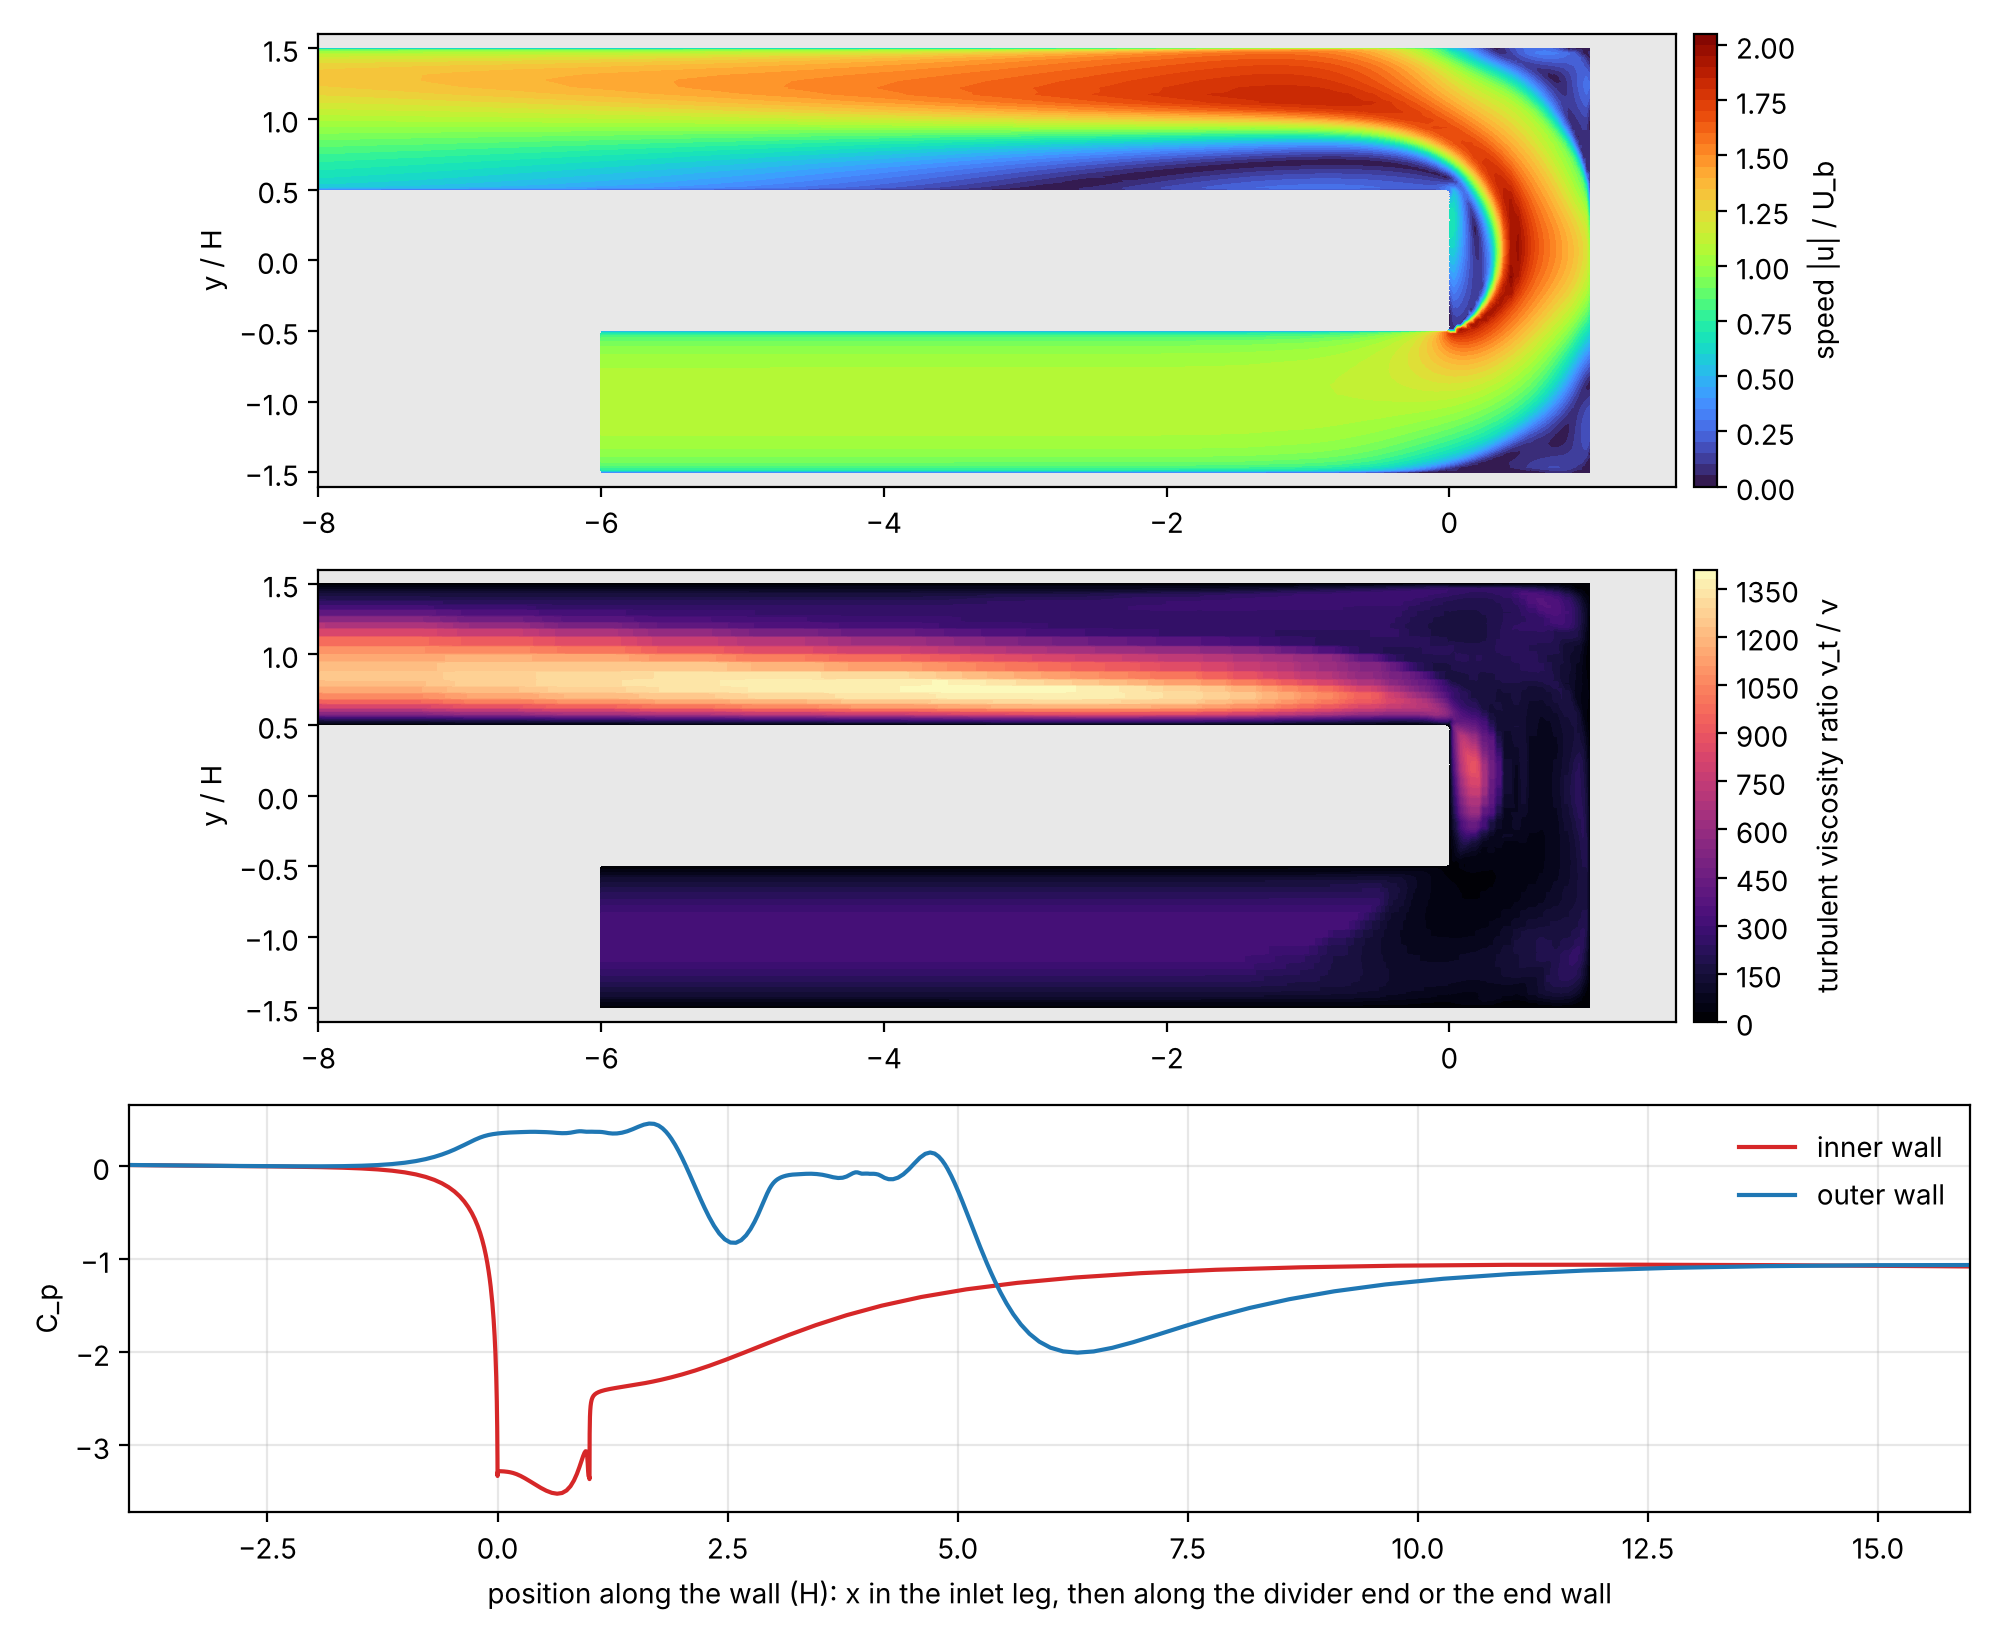
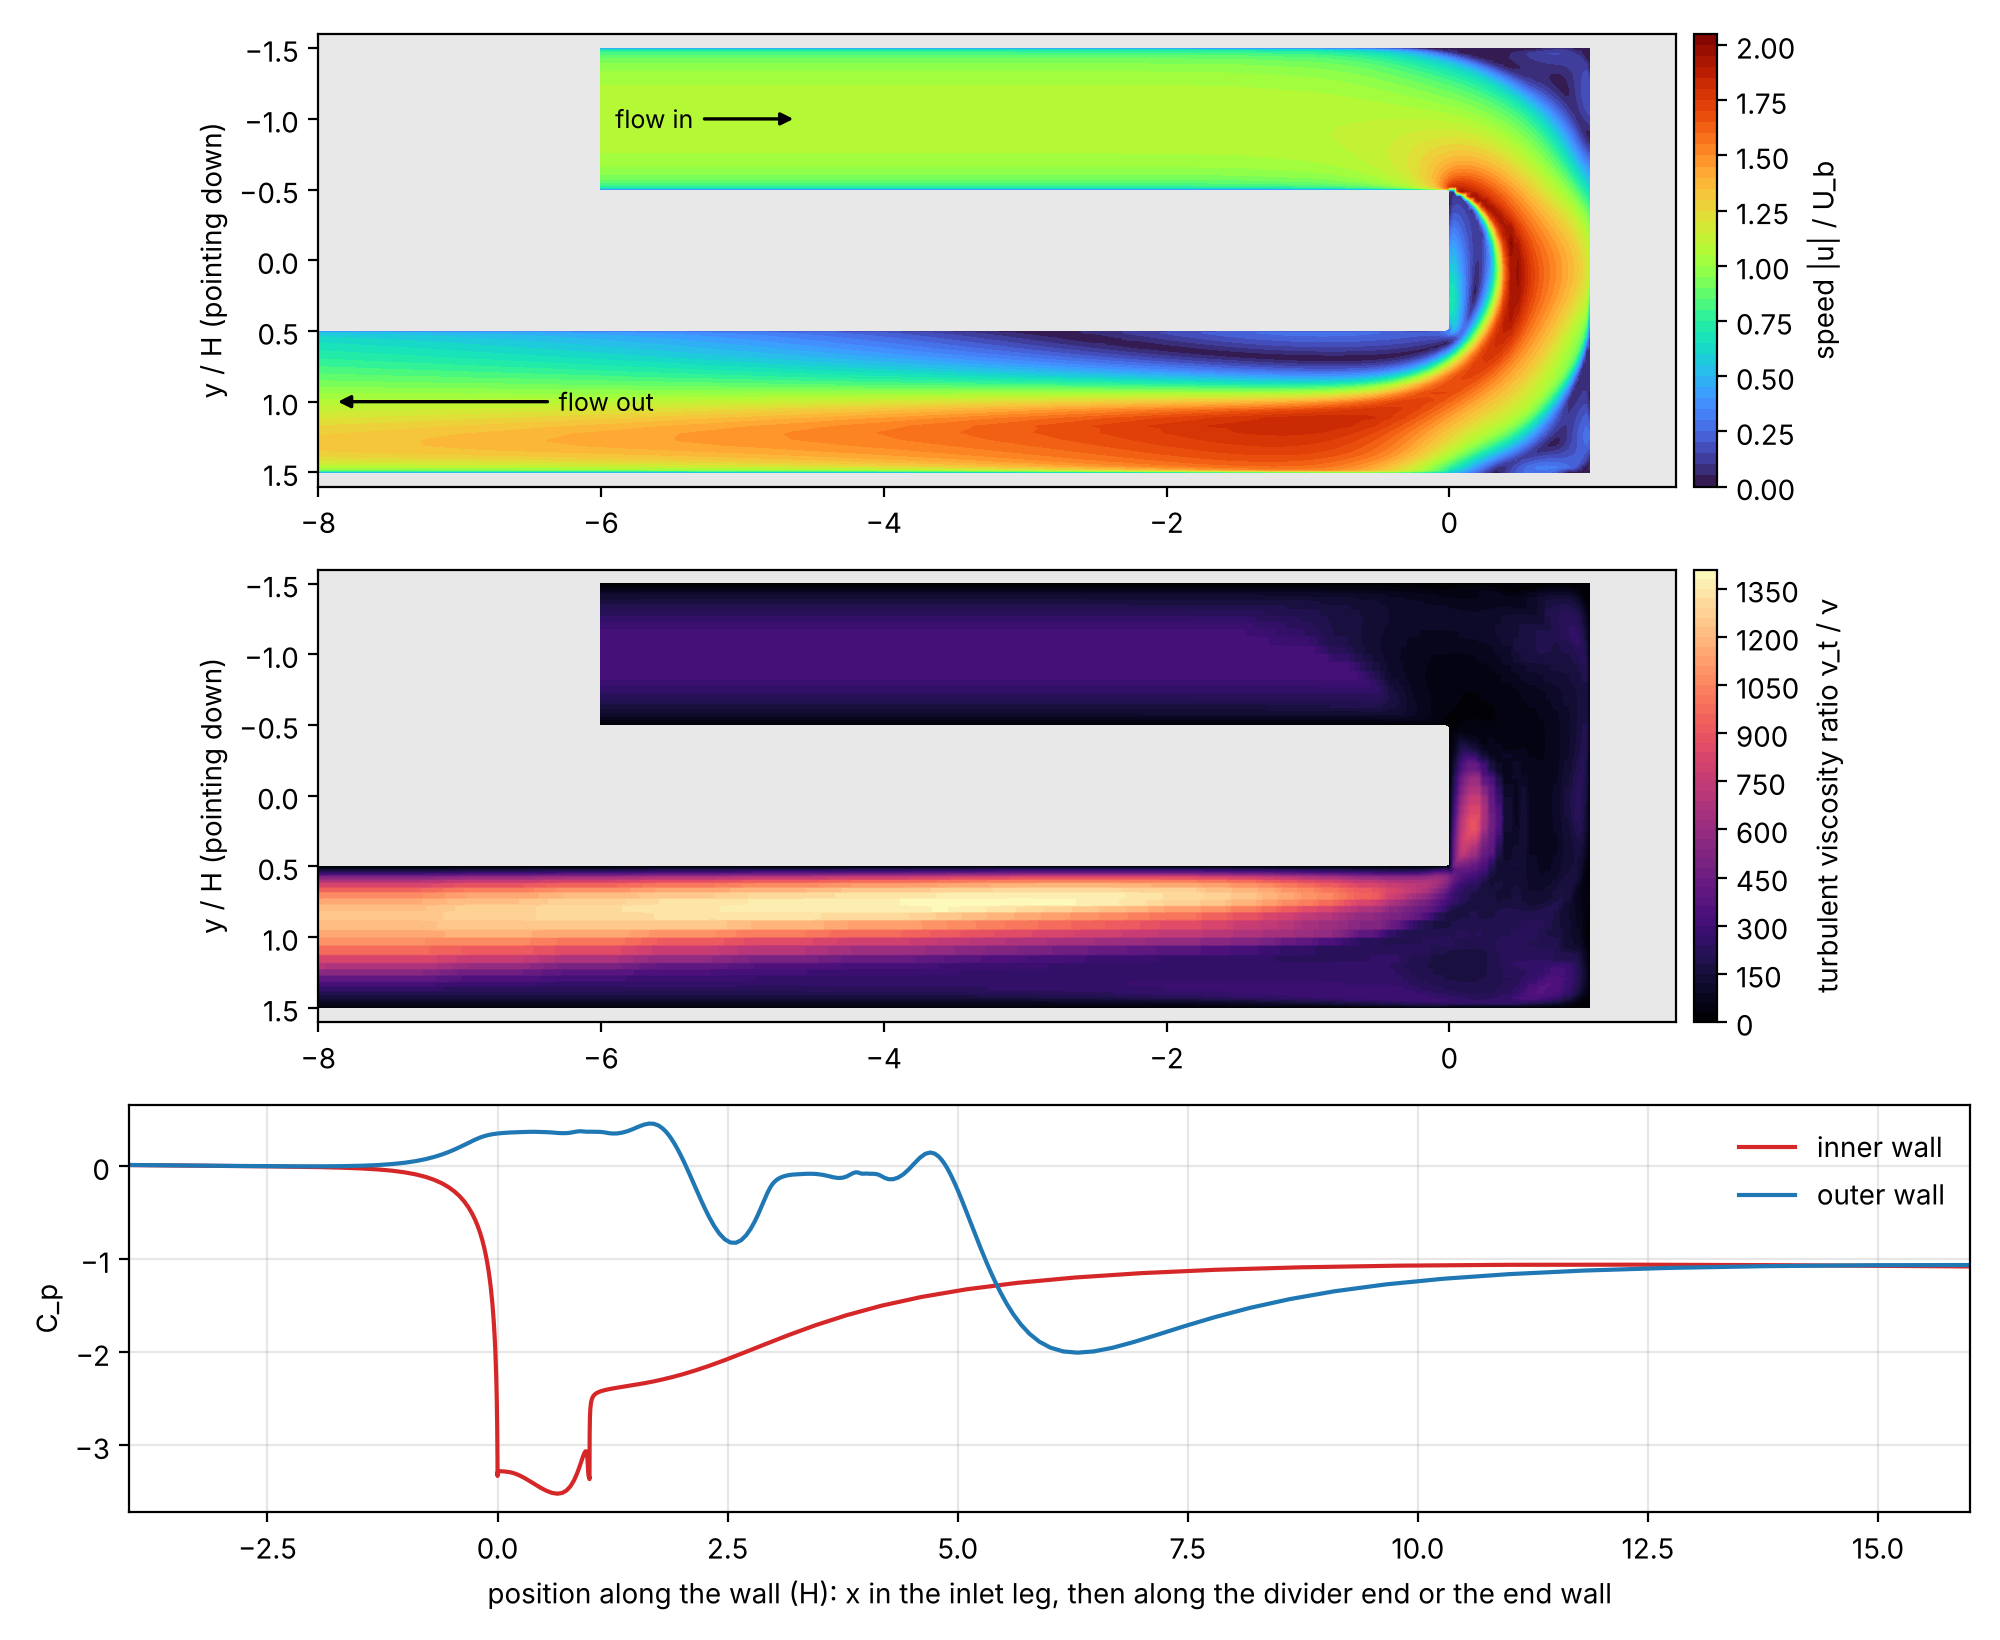
U-bend images drawn as in the literature: flow in at the upper left, out at the lower left (gallery 204)
Claude-Session: https://claude.ai/code/session_012imjwn8pJJno4y7U68qNUF

diff --git a/tools/plot/ubend_chart.py b/tools/plot/ubend_chart.py
@@ -112,8 +112,17 @@ def main(argv) -> None:
         ax = fig.add_subplot(gs[k])
         t = ax.tricontourf(tri, v, levels=48, cmap=cmap)
         fig.colorbar(t, ax=ax, label=lab, pad=0.01)
-        ax.set_aspect("equal"); ax.set_xlim(-8, 1.6); ax.set_ylim(-1.6, 1.6); ax.set_ylabel("y / H")
+        # Drawn as in the literature: flow in at the upper left, out at the
+        # lower left. The y axis points down (coordinates as in the case
+        # file, the picture mirrored about the duct axis y = 0), so inner and
+        # outer walls and the bend stay where the case has them.
+        ax.set_aspect("equal"); ax.set_xlim(-8, 1.6); ax.set_ylim(1.6, -1.6)
+        ax.set_ylabel("y / H (pointing down)")
         ax.set_facecolor("#e8e8e8")
+        if k == 0:
+            kw = dict(arrowprops=dict(arrowstyle="-|>", color="k", lw=1.2), color="k", fontsize=9, va="center")
+            ax.annotate("flow in", xy=(-4.6, -1.0), xytext=(-5.9, -1.0), **kw)
+            ax.annotate("flow out", xy=(-7.9, 1.0), xytext=(-6.3, 1.0), **kw)
     ax = fig.add_subplot(gs[2])
     outer, inner = g.along(d, "outer"), g.along(d, "inner")
     p0 = g.p_at(outer, g.station(-2.0, -1.5))

diff --git a/docs/gallery/turbulence.md b/docs/gallery/turbulence.md
@@ -1345,7 +1345,11 @@ python3 -m tools.plot.diffuser_chart docs/figures/gallery/diffuser_sst.png
 <a id="ubend"></a>
 ## 204. U-bend of Rc/H = 1: separation behind a 180° turn, three meshes with GCI, sharp edges
 
-<img src="../figures/gallery/ubend_sst.png" alt="Turbulent flow through a two-dimensional U-duct with a centreline radius of one duct height, k-omega SST, coarse mesh. Top: speed, accelerated along the inner wall of the turn and a thin slow region on the inner wall behind the turn where the flow separates; the fast flow is pushed to the outer wall of the outlet leg. Middle: turbulent viscosity ratio, largest in the shear layer above the separated region. Bottom: wall pressure coefficient along the inner and the outer wall, a suction of minus 2.5 on the inner wall in the turn and a rise to plus 0.5 on the outer wall" width="800" height="656">
+<img src="../figures/gallery/ubend_sst.png" alt="Turbulent flow through a two-dimensional U-duct with a centreline radius of one duct height, k-omega SST, coarse mesh, drawn with the flow entering at the upper left and leaving at the lower left. Top: speed, accelerated along the inner wall of the turn and a thin slow region on the inner wall behind the turn where the flow separates; the fast flow is pushed to the outer wall of the outlet leg. Middle: turbulent viscosity ratio, largest in the shear layer above the separated region. Bottom: wall pressure coefficient along the inner and the outer wall, a suction of minus 2.5 on the inner wall in the turn and a rise to plus 0.5 on the outer wall" width="800" height="656">
+
+The field images are drawn as in the literature, with the flow entering at
+the upper left and leaving at the lower left: the y axis points down, so
+the coordinates are those of the case file and the mesh.
 
 The fourth general-purpose internal flow of D45 (stage 8): the
 two-dimensional U-duct of Monson, Seegmiller & McConnaughey (1990, AIAA
@@ -1449,7 +1453,7 @@ past 10 000 iterations is against the run rules (AGENTS.md); a faster
 route to the steady state of the sharp turn on fine meshes (a transient
 run from the level-2 state, or a stronger start) is open.
 
-<img src="../figures/gallery/ubend_sharp.png" alt="The same duct with sharp edges, coarse mesh. Top: speed; the flow turns in a jet around the square divider end, with slow corner vortices at the end wall and a long separated region on the divider behind the turn. Middle: turbulent viscosity ratio, large in the shear layers of the separated regions. Bottom: wall pressure coefficient along the inner and the outer wall, a suction of minus 3.5 on the divider end and a loss of about minus 1.05 behind the turn" width="800" height="656">
+<img src="../figures/gallery/ubend_sharp.png" alt="The same duct with sharp edges, coarse mesh, flow in at the upper left and out at the lower left. Top: speed; the flow turns in a jet around the square divider end, with slow corner vortices at the end wall and a long separated region on the divider behind the turn. Middle: turbulent viscosity ratio, large in the shear layers of the separated regions. Bottom: wall pressure coefficient along the inner and the outer wall, a suction of minus 3.5 on the divider end and a loss of about minus 1.05 behind the turn" width="800" height="656">
 
 - **There is no comparison with the measurements of Monson et al.**
   (owner decision 2026-11-22: GCI first, reference later, D201); the
